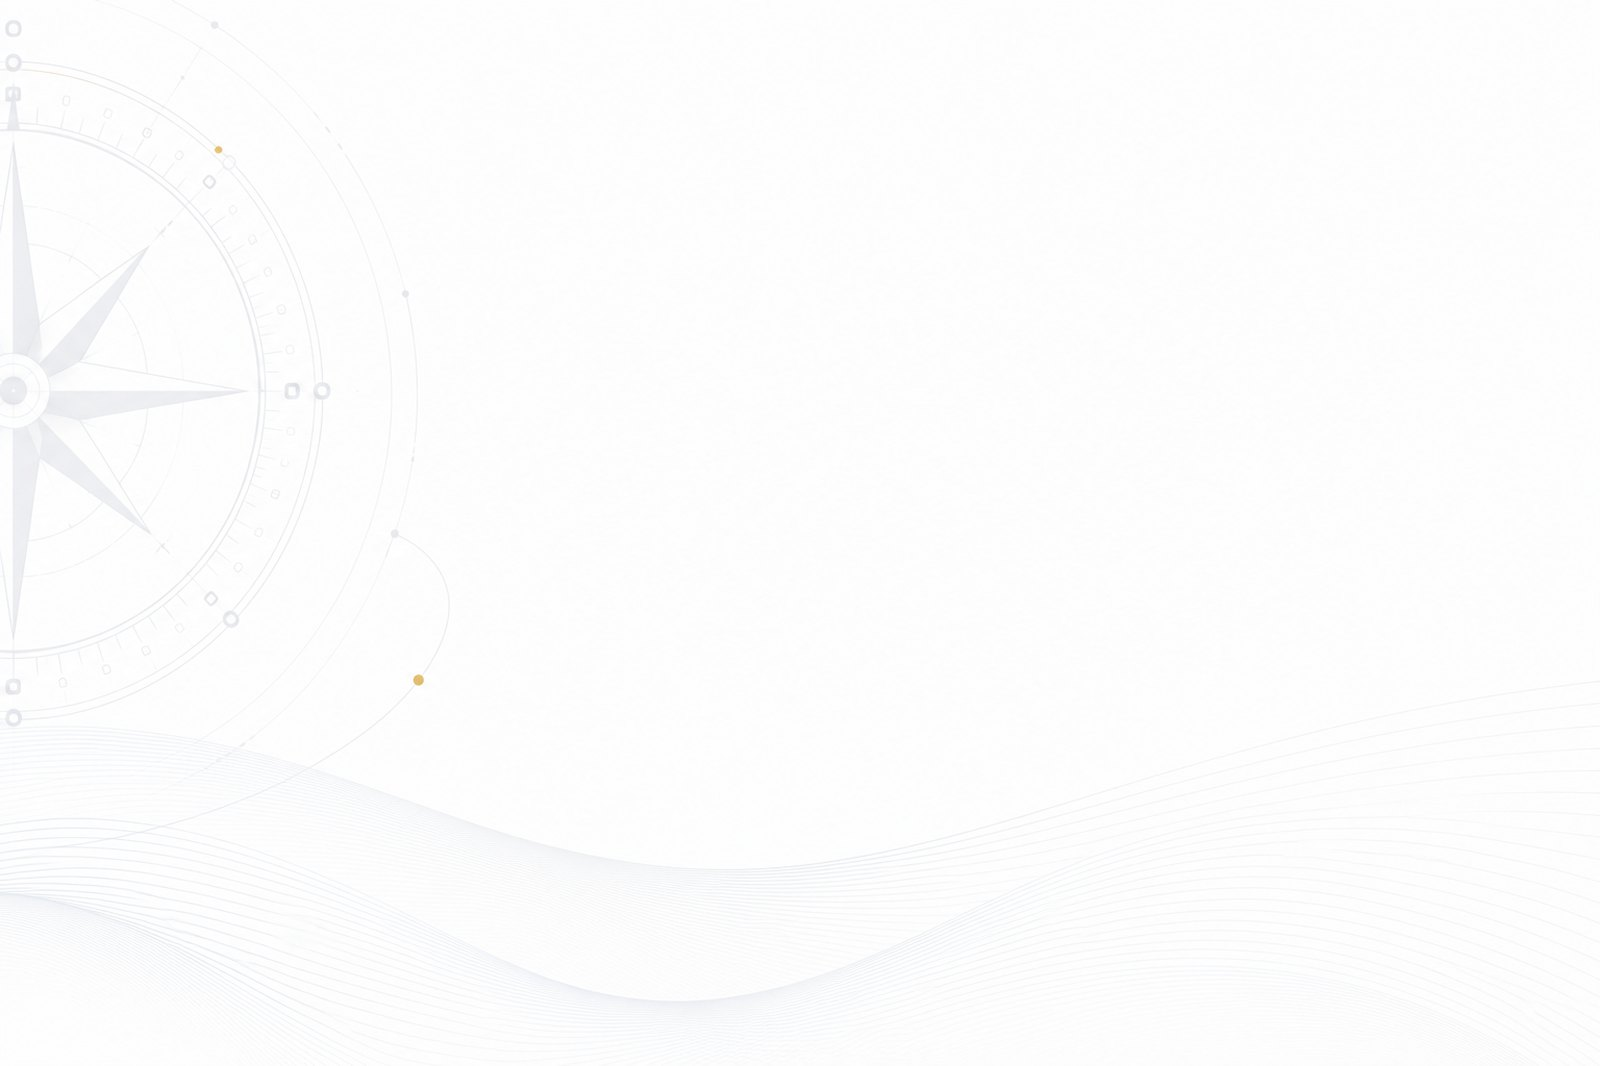
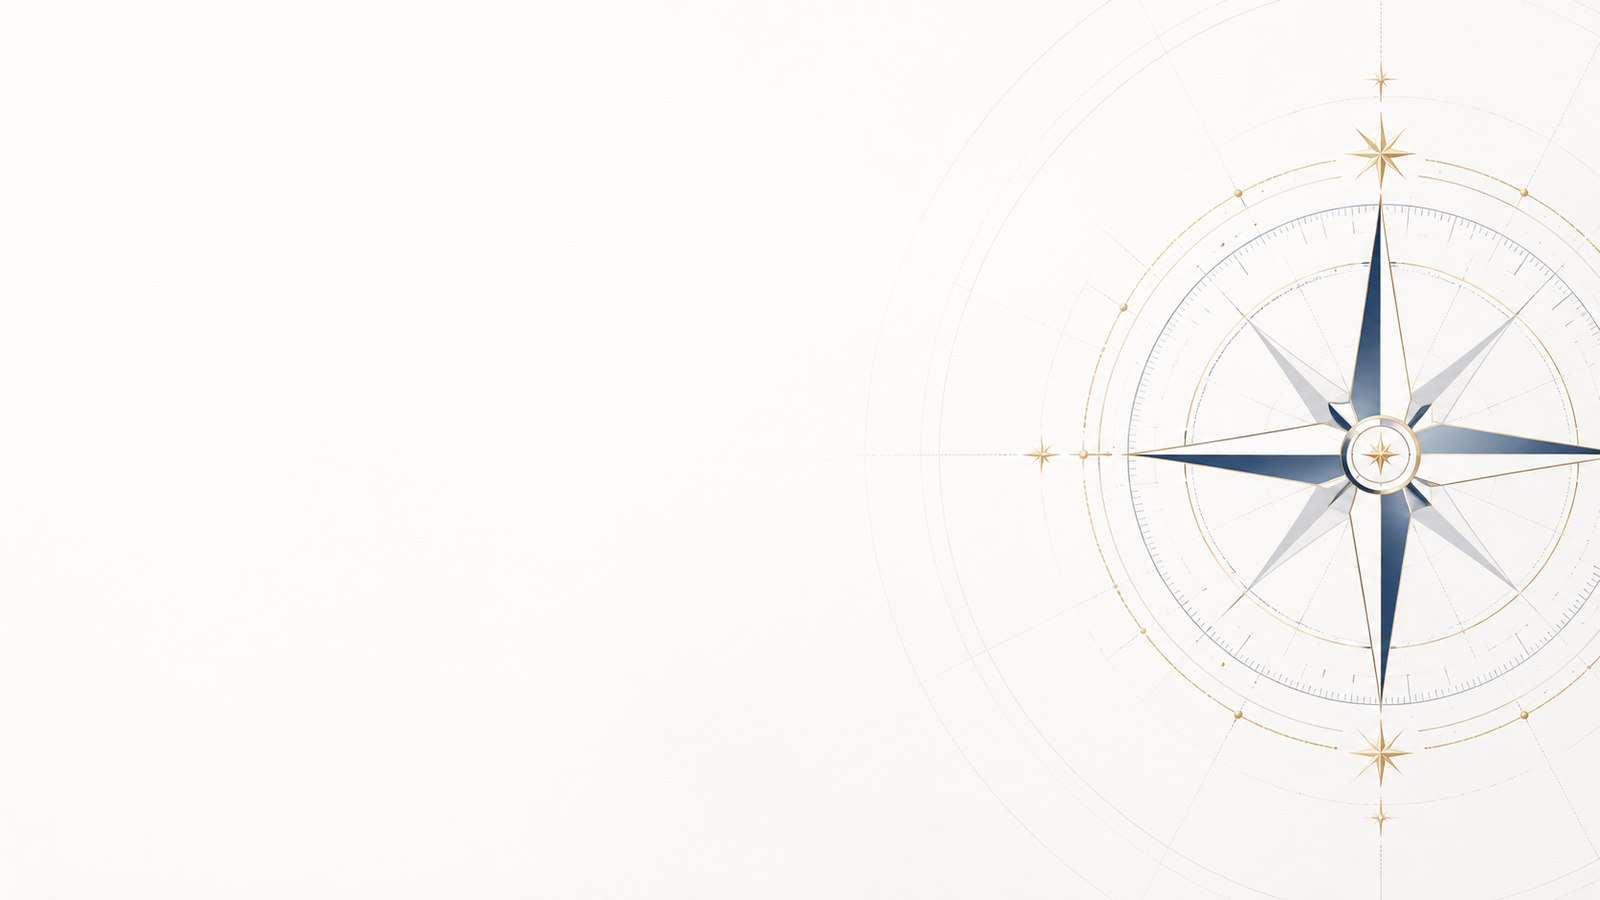
Home sezione Il progetto: nuova immagine di sfondo bianca (bussola oro/blu a destra) + overlay leggibilita

diff --git a/style.css b/style.css
@@ -390,7 +390,8 @@ tr:last-child td{border-bottom:none}
 .sec-ornament.left{justify-content:flex-start;gap:14px;margin-bottom:22px}
 
 /* --- Sezione 1: Value proposition (bianca) --- */
-.value{position:relative;background:#f7f9fd url(immagini/Elementi/bg-value.jpg) left top/cover no-repeat;padding:clamp(72px,9vw,116px) 0}
+.value{position:relative;overflow:hidden;background:#f7f9fd url(immagini/Elementi/bg-value.jpg) center right/cover no-repeat;padding:clamp(72px,9vw,116px) 0}
+.value::before{content:"";position:absolute;inset:0;z-index:0;background:linear-gradient(90deg, rgba(247,249,253,.62) 0%, rgba(247,249,253,.36) 55%, rgba(247,249,253,.08) 100%)}
 .value-in{position:relative;z-index:1}
 .value .eyebrow{margin-bottom:8px}
 .value-title{font-family:var(--serif);font-weight:700;color:var(--blue-deep);font-size:clamp(30px,3.8vw,46px);line-height:1.1;letter-spacing:-.02em;margin:0}
